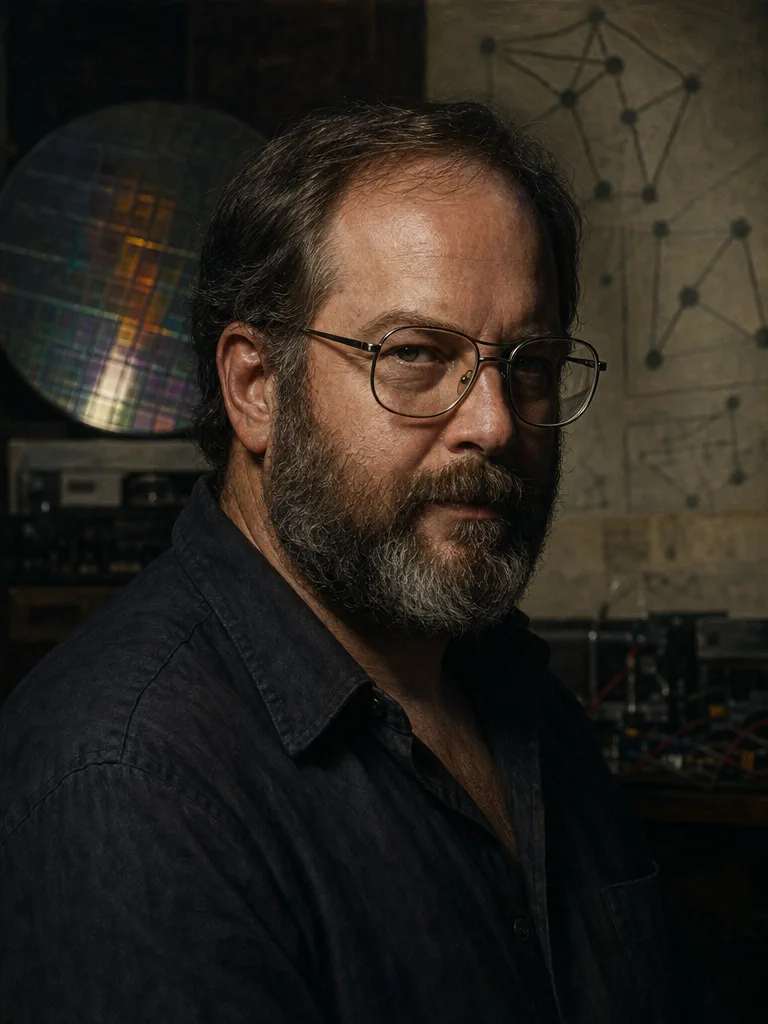
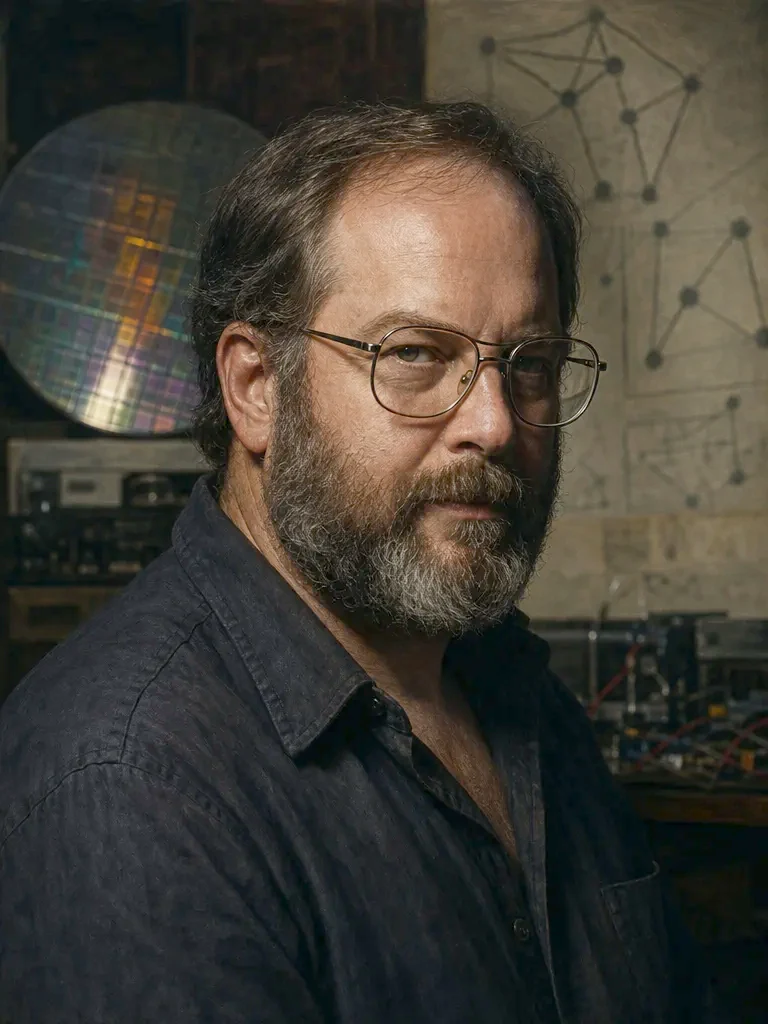
[verified] fix: brighten promoted portraits and expand model setup

diff --git a/public/styles.css b/public/styles.css
@@ -17,9 +17,10 @@
   font: 16px/1.4 var(--sans);
 }
 
-.provider-setup-panel { width: min(92vw, 760px); max-width: 760px; max-height: min(90vh, 920px); overflow: auto; padding: clamp(1rem, 3vw, 2rem); background: var(--paper, #f4efe4); color: var(--ink, #17231d); }
-.provider-setup-heading { display: flex; align-items: start; justify-content: space-between; gap: 1rem; margin-bottom: 1rem; }
-.provider-setup-heading h2 { margin: 0; }
+#provider-setup { position: fixed; inset: 0; width: 100vw; height: 100dvh; max-width: none; max-height: none; margin: 0; border: 0; padding: 0; overflow: auto; background: var(--paper, #f4efe4); box-shadow: none; }
+.provider-setup-panel { width: min(100%, 1100px); max-width: none; min-height: 100dvh; max-height: none; margin: 0 auto; overflow: visible; padding: clamp(1.25rem, 4vw, 3.5rem); background: var(--paper, #f4efe4); color: var(--ink, #17231d); }
+.provider-setup-heading { position: sticky; z-index: 2; top: 0; display: flex; align-items: start; justify-content: space-between; gap: 1rem; margin-bottom: 1.5rem; border-bottom: 6px solid var(--ink, #17231d); padding: 1rem 0; background: var(--paper, #f4efe4); }
+.provider-setup-heading h2 { max-width: 18ch; margin: 0; font: 900 clamp(2.4rem, 6vw, 5.5rem)/.88 var(--display); letter-spacing: -.035em; text-transform: uppercase; }
 .provider-setup-panel fieldset { min-width: 0; border: 1px solid currentColor; padding: 1rem; }
 .provider-paths { display: grid; gap: .75rem; margin-bottom: 1rem; }
 .provider-choice { display: flex; align-items: start; gap: .75rem; padding: .75rem; border: 1px solid rgba(23, 35, 29, .3); cursor: pointer; }
@@ -34,7 +35,7 @@
 .provider-actions { display: flex; flex-wrap: wrap; gap: .6rem; margin: 1rem 0; }
 
 @media (max-width: 760px) {
-  .provider-setup-panel { width: calc(100vw - 1rem); max-height: calc(100vh - 1rem); padding: 1rem; }
+  .provider-setup-panel { width: 100%; min-height: 100dvh; max-height: none; padding: 1rem; }
   .provider-field-grid { grid-template-columns: minmax(0, 1fr); }
   .provider-actions { display: grid; grid-template-columns: minmax(0, 1fr); }
   .provider-actions .button { width: 100%; }

diff --git a/test/integration/provider-onboarding-ui.test.ts b/test/integration/provider-onboarding-ui.test.ts
@@ -20,7 +20,9 @@ test("provider onboarding is accessible, responsive, and contains the required d
   assert.match(html, /<select[^>]+id="provider-model"[^>]+required/);
   assert.match(html, /<input[^>]+id="provider-disclosure-ack"[^>]+type="checkbox"[^>]+required/);
   assert.match(html, /id="provider-revision-status"[^>]+aria-live="polite"/);
-  assert.match(styles, /\.provider-setup-panel[\s\S]*max-width/);
+  assert.match(styles, /#provider-setup\s*\{[^}]*width:\s*100vw;[^}]*height:\s*100dvh;[^}]*max-width:\s*none;/);
+  assert.match(styles, /\.provider-setup-panel\s*\{[^}]*width:\s*min\(100%,\s*1100px\);[^}]*min-height:\s*100dvh;/);
+  assert.match(styles, /\.provider-setup-heading\s*\{[^}]*position:\s*sticky;/);
   assert.match(styles, /@media\s*\(max-width:\s*760px\)[\s\S]*\.provider-actions/);
 });
 

diff --git a/test/integration/startup.test.ts b/test/integration/startup.test.ts
@@ -421,7 +421,7 @@ test("compiled server starts from a non-repository cwd with packaged migrations,
   assert.equal((await portraitResponse.arrayBuffer()).byteLength, 43_092);
   const promotedPortraitResponse = await fetch(`http://127.0.0.1:${port}/assets/portraits/hal-finney.webp`);
   assert.equal(promotedPortraitResponse.status, 200);
-  assert.equal((await promotedPortraitResponse.arrayBuffer()).byteLength, 33_868);
+  assert.equal((await promotedPortraitResponse.arrayBuffer()).byteLength, 52_462);
 });
 
 test("local-source launcher inspects a real pack from a foreign cwd and cleans up on SIGTERM", async () => {

diff --git a/site/scripts/validate.py b/site/scripts/validate.py
@@ -91,18 +91,18 @@ PORTRAIT_ASSETS = {
[21 lines of base64/hex data omitted]
 }
 PROFILE_MAIN_TEXT_SHA256 = {
[1 lines of base64/hex data omitted]
